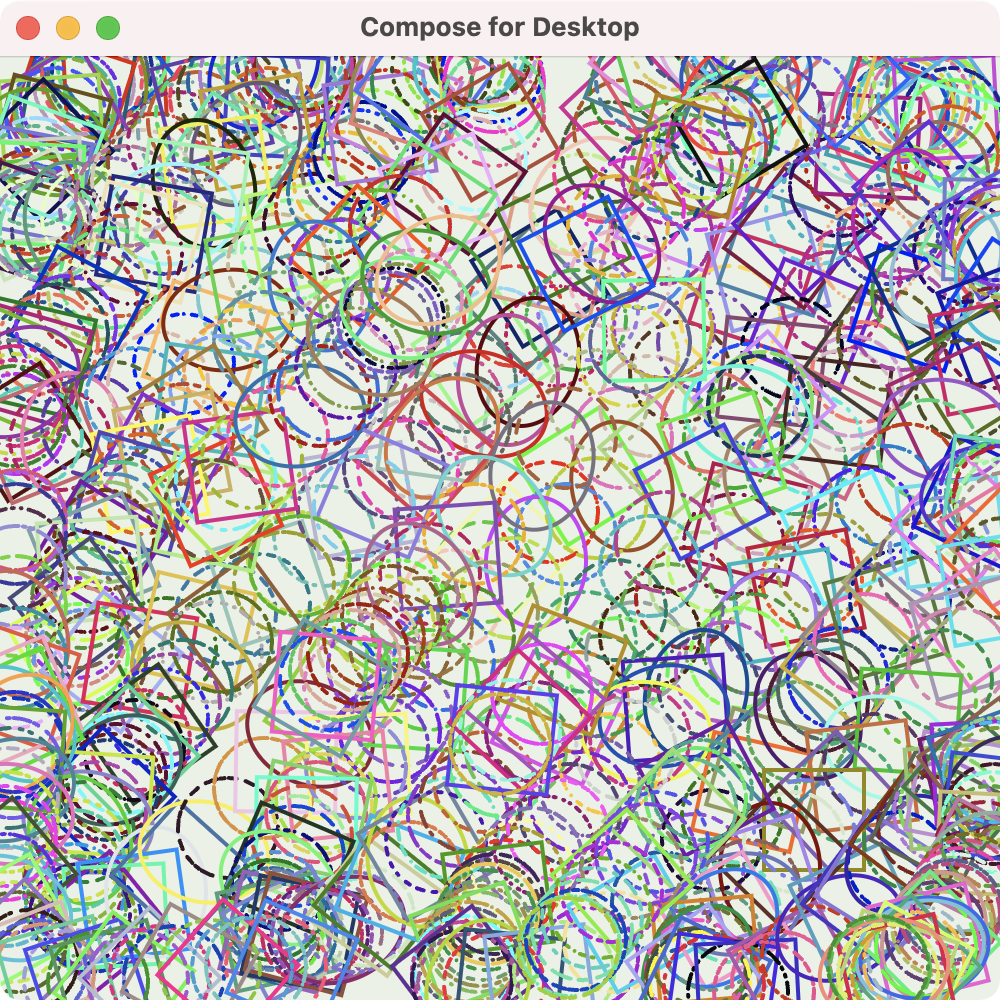
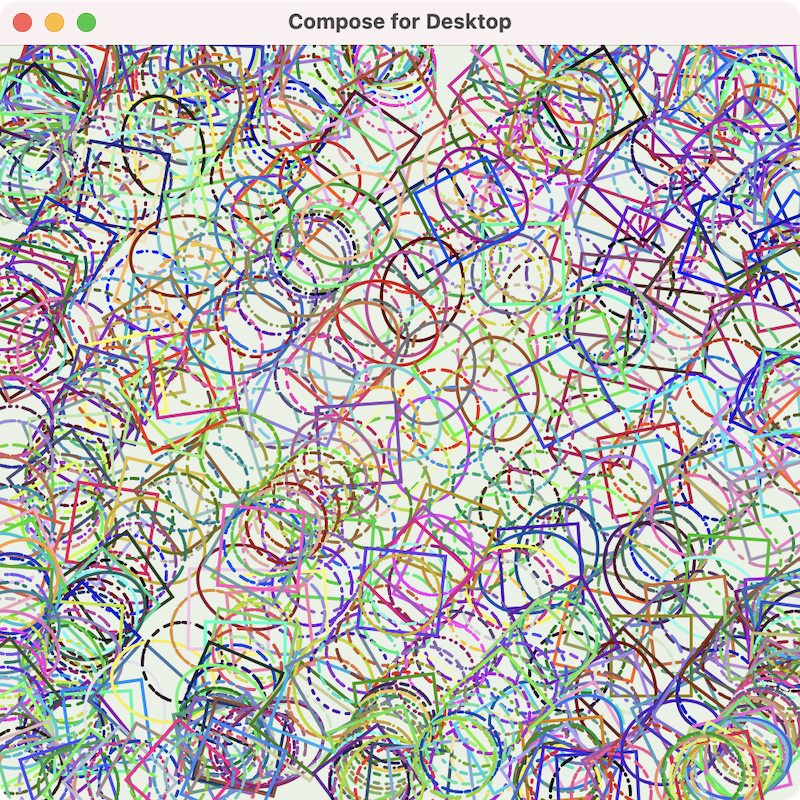
Added Hexagons example Corrected titles Rescaled sample images

diff --git a/src/main/kotlin/Hexagons.kt b/src/main/kotlin/Hexagons.kt
@@ -1,0 +1,60 @@
+import androidx.compose.foundation.Canvas
+import androidx.compose.foundation.background
+import androidx.compose.foundation.layout.fillMaxSize
+import androidx.compose.material.MaterialTheme
+import androidx.compose.ui.Modifier
+import androidx.compose.ui.draw.clipToBounds
+import androidx.compose.ui.geometry.Offset
+import androidx.compose.ui.graphics.*
+import androidx.compose.ui.graphics.drawscope.DrawScope
+import androidx.compose.ui.unit.dp
+import androidx.compose.ui.window.Window
+import androidx.compose.ui.window.application
+import androidx.compose.ui.window.rememberWindowState
+import kotlin.math.PI
+import kotlin.math.cos
+import kotlin.math.sin
+import kotlin.random.Random
+
+fun main() = application {
+
+    Window(
+        onCloseRequest = ::exitApplication,
+        title = "Polygons",
+        state = rememberWindowState(width = 800.dp, height = 800.dp)
+    ) {
+        MaterialTheme {
+            val drawModifier = Modifier
+                .fillMaxSize()
+                .background(Color.White)
+                .clipToBounds()
+
+            Canvas(modifier = drawModifier) {
+                for (i in 0..1000) {
+                    val coefficient = 0.75
+                    val x = window.width + Random.nextDouble(-window.width * coefficient, window.width * coefficient)
+                    val y = window.height + Random.nextDouble(-window.height * coefficient, window.width * coefficient)
+
+                    polygon(x.toFloat(), y.toFloat(), 100f, 6)
+                }
+            }
+        }
+    }
+}
+
+private fun DrawScope.polygon(x: Float, y: Float, radius: Float, npoints: Int) {
+    val angle = 2 * PI / npoints
+    var nextAngle = 0.0
+
+    var ssx = x + cos(nextAngle) * radius
+    var ssy = y + sin(nextAngle) * radius
+
+    while (nextAngle < 2 * PI) {
+        nextAngle += angle
+        val sx = x + cos(nextAngle) * radius
+        val sy = y + sin(nextAngle) * radius
+        drawLine(Color.Blue, Offset(ssx.toFloat(), ssy.toFloat()), Offset(sx.toFloat(), sy.toFloat()))
+        ssx = sx
+        ssy = sy
+    }
+}

diff --git a/src/main/kotlin/DrawingRandomShapes.kt b/src/main/kotlin/DrawingRandomShapes.kt
@@ -103,7 +103,7 @@ val shapes = mutableListOf<Shape>()
 fun main() = application {
     Window(
         onCloseRequest = ::exitApplication,
-        title = "Compose for Desktop",
+        title = "Random shapes",
         state = rememberWindowState(width = 500.dp, height = 500.dp),
         onKeyEvent = {
             if (it.key == Key.C) {

diff --git a/src/main/kotlin/DrawingStrokes.kt b/src/main/kotlin/DrawingStrokes.kt
@@ -30,7 +30,7 @@ fun main() = application {
 
     Window(
         onCloseRequest = ::exitApplication,
-        title = "Compose for Desktop",
+        title = "Drawing strokes",
         state = rememberWindowState(width = 500.dp, height = 500.dp)
     ) {
         MaterialTheme {

diff --git a/src/main/kotlin/CircleOfCirles.kt b/src/main/kotlin/CircleOfCirles.kt
@@ -20,7 +20,7 @@ fun main() = application {
 
     Window(
         onCloseRequest = ::exitApplication,
-        title = "Compose for Desktop",
+        title = "Circles",
         state = rememberWindowState(width = 800.dp, height = 800.dp)
     ) {
         MaterialTheme {
